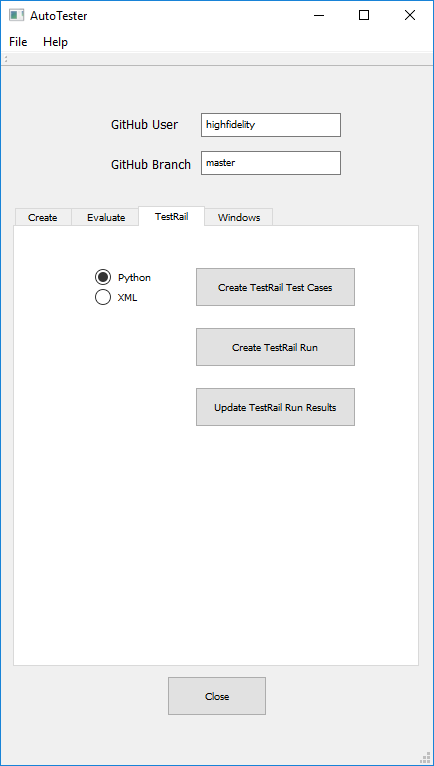
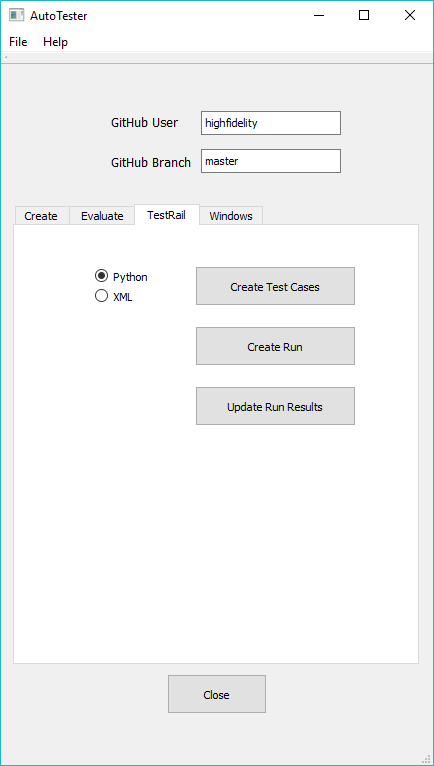
Updated README.md and minor changes in Auto-tester to match.

diff --git a/tools/auto-tester/src/Test.cpp b/tools/auto-tester/src/Test.cpp
@@ -49,9 +49,7 @@ void Test::zipAndDeleteTestResultsFolder() {
     }
 
     QDir testResultsFolder(_testResultsFolderPath);
-    if (!testResultsFolder.isEmpty()) {
-        JlCompress::compressDir(_testResultsFolderPath + ".zip", _testResultsFolderPath);
-    }
+    JlCompress::compressDir(_testResultsFolderPath + ".zip", _testResultsFolderPath);
 
     testResultsFolder.removeRecursively();
 

diff --git a/tools/auto-tester/README.md b/tools/auto-tester/README.md
@@ -14,6 +14,7 @@ Auto-tester has 4 functions, separated into 4 tabs:
 
 # Create
 ![](./Create.png)
+
 The Create tab provides functions to create tests from snapshots, MD files, a test outline and recursive scripts.
 ## Create Tests
 ### Usage
@@ -80,6 +81,7 @@ In this case all recursive scripts, from the selected folder down, are created.
 Running this function in the tests root folder will create (or update) all the recursive scripts.
 # Evaluate
 ![](./Evaluate.png)
+
 The Evaluate tab provides a single function - evaluating the results of a test run.
 
 A checkbox (defaulting to checked) runs the evaluation in interactive mode.  In this mode - every failure is shown to the user, who can then decide whether to pass the test, fail it or abort the whole evaluation.
@@ -102,8 +104,80 @@ Evaluation proceeds in a number of steps:
 
 1.  If not in interactive mode, or the user has defined the results as an error, an error is written into the error folder.  The error itself is a folder with the 3 images and a small text file containing details.
 
-1.  At the end of the test, the folder is zipped and the original folder is deleted.  If there are no errors, then there will be no zipped folder.
+1.  At the end of the test, the folder is zipped and the original folder is deleted.  If there are no errors then the zipped folder will be empty.
 # TestRail
 ![](./TestRail.png)
+
+Before updating TestRail, make sure the GitHub user and branch are set correctly.  The user should not normally be changed, but the branch may need to be set to the appropriate RC.
+
+Any access to TestRail will require the TestRail account (default is High Fidelity's account), a user-name and a password:
+
+![](./TestRailSelector.png)
+
+- The default test rail user is shown, and can be changed as needed.
+- The username is usually the user's email.
+- The Project ID defaults to 14 - Interface.
+- The Suite ID defaults to 1147 - Renderong.
+- The TestRail page provides 3 functions for writing to TestRail.
+## Create Test Cases
+### Usage
+This function can either create an XML file that can then be imported into TestRail through TestRail itself, or automatically create the appropriate TestRail Sections.
+
+The user will be first asked for the tests root folder and a folder to store temporary files (this is the output folder).
+
+If XML has been selected, then the XML file will be created in the output folder.
+
+If Python is selected, the user will then be prompted for TestRail data.  After pressing `Accept` - the Release combo will be populated (as it needs to be read from TestRail).
+
+After selecting the appropriate Release, press OK.  The Python script will be created in the output folder, and the user will be prompted to run it.
+
+A busy window will appear until the process is complete.
+### Details
+A number of Python scripts are created:
+- `testrail.py` is the TestRail interface code.
+- `stack.py` is a simple stack class
+- `getReleases.py` reads the release names from TestRail
+- `addTestCases` is the script that writes to TestRail.
+
+In addition - a file containing all the releases will be created - `releases.txt`
+## Create Run
+A Run is created from previously created Test Cases.
+
+The user will first be prompted for a temporary folder (for the Python scripts).
+
+After entering TestRail data and pressing `Accept` - the Sections combo will be populated (as it needs to be read from TestRail).
+
+After selecting the appropriate Section, press OK.  The Python script will be created in the output folder, and the user will be prompted to run it.
+
+A busy window will appear until the process is complete.
+### Details
+A number of Python scripts are created:
+- `testrail.py` is the TestRail interface code.
+- `stack.py` is a simple stack class
+- `getSections.py` reads the release names from TestRail
+- `addRun` is the script that writes to TestRail.
+
+In addition - a file containing all the releases will be created - `sections.txt`
+## Update Run Results
+This function updates a Run with the results of an automated test.
+
+The user will first be prompted to enter the zipped results folder and a folder to store temporary files (this is the output folder).
+
+After entering TestRail data and pressing `Accept` - the Run combo will be populated (as it needs to be read from TestRail).
+
+After selecting the appropriate Run, press OK.  The Python script will be created in the output folder, and the user will be prompted to run it.
+
+A busy window will appear until the process is complete.
+### Details
+A number of Python scripts are created:
+- `testrail.py` is the TestRail interface code.
+- `getRuns.py` reads the release names from TestRail
+- `addRun` is the script that writes to TestRail.
+
+In addition - a file containing all the releases will be created - `runs.txt`
 # Windows
 ![](./Windows.png)
+
+This tab is Windows-specific.  It provides buttons to hide and show the task bar.
+
+The task bar should be hidden for all tests that use the primary camera.  This is required to ensure that the snapshots are the right size.
